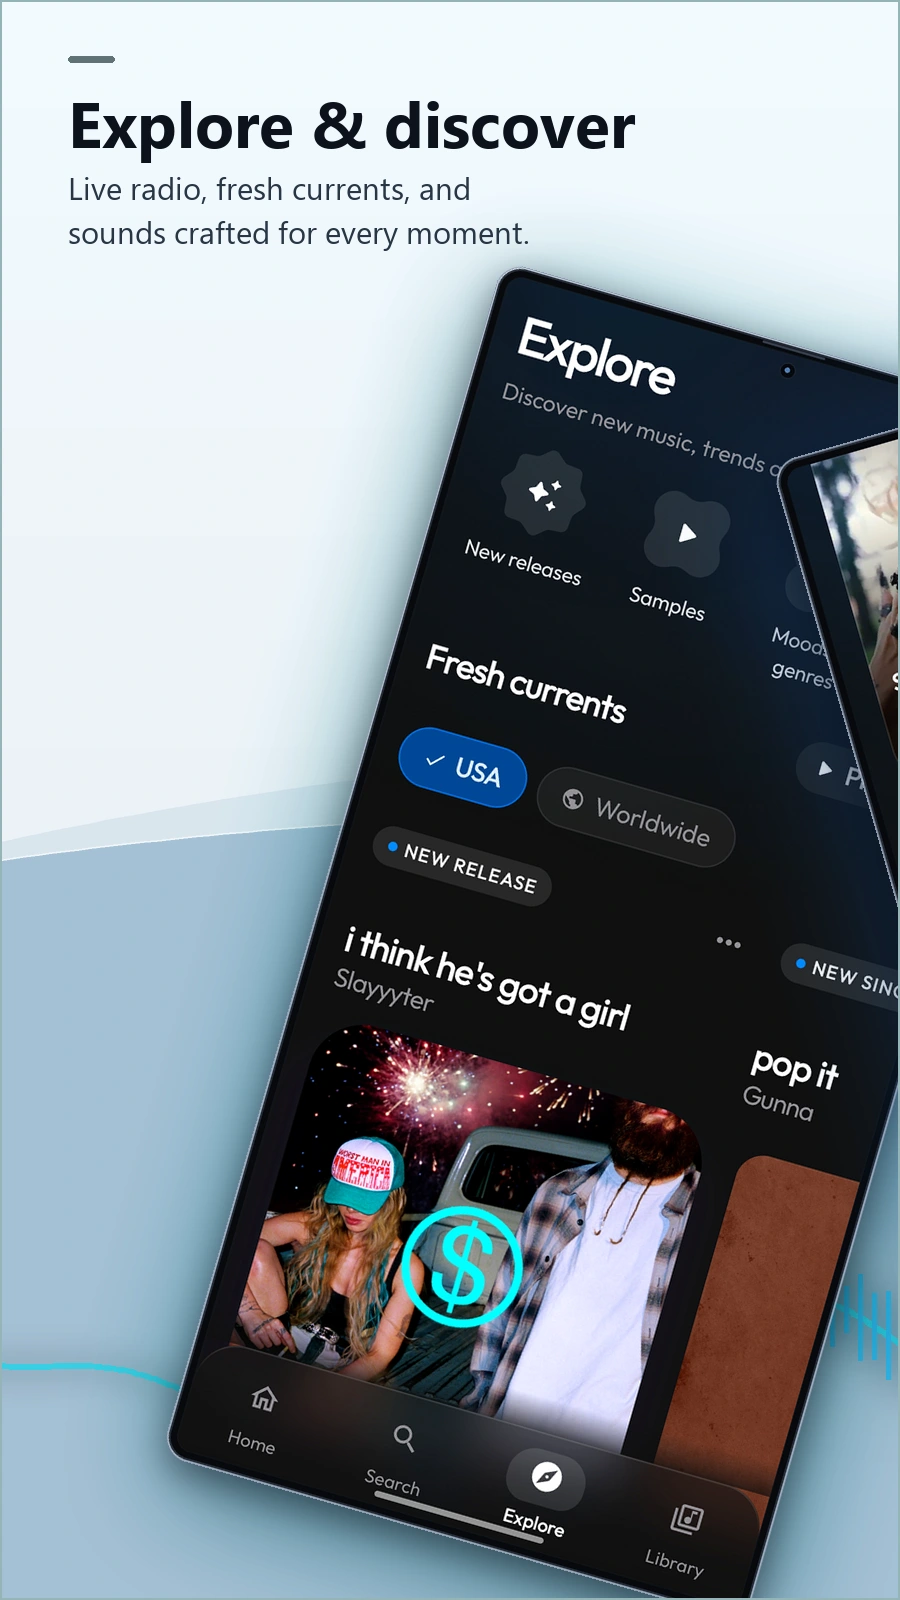
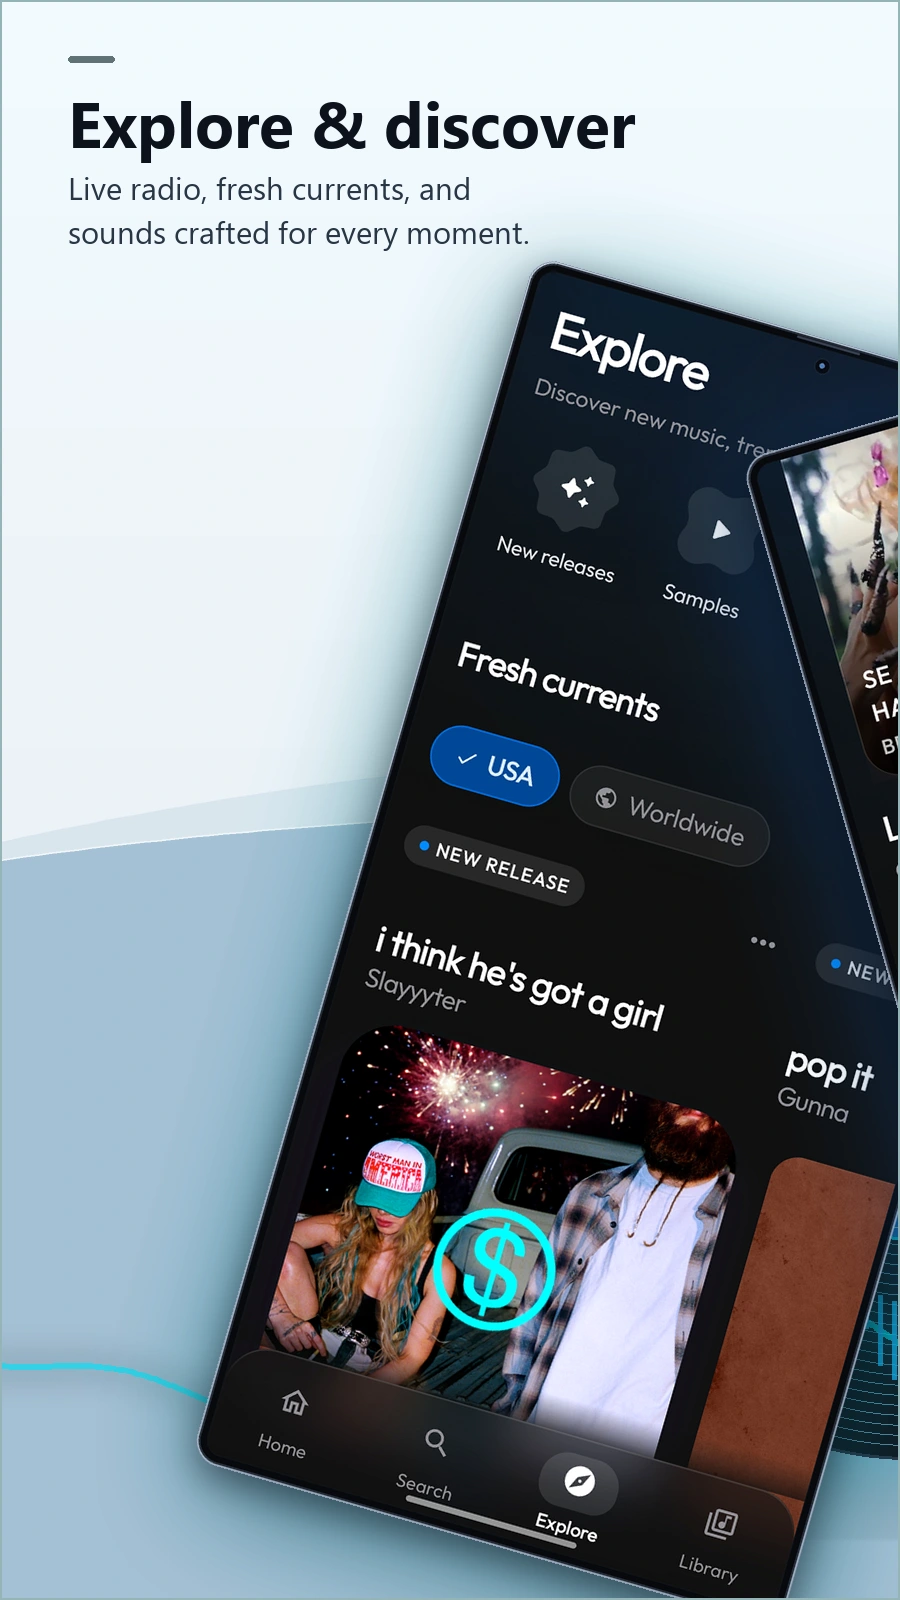
docs(readme): add glowing vinyl portal and stage paths for Explore and Mix

Changed region(s): [[0.1556, 0.1562, 1.0, 1.0]]

diff --git a/scripts/generate_showcase_assets.py b/scripts/generate_showcase_assets.py
@@ -511,44 +511,79 @@ def generate_explore_mix_crossover(card_w, card_h):
         y_end=740,
     )
 
+    # Glowing Vinyl Record centered at the seam (x = 910)
+    vinyl_size = 660
+    vinyl = Image.new("RGBA", (vinyl_size, vinyl_size), (0, 0, 0, 0))
+    vdraw = ImageDraw.Draw(vinyl)
+    vdraw.ellipse((0, 0, vinyl_size - 1, vinyl_size - 1), fill=(15, 18, 25, 255), outline=(40, 48, 65, 255), width=3)
+
+    for r in range(45, vinyl_size // 2 - 12, 10):
+        opacity = 180 if (r % 30 == 0) else 85
+        width = 2 if (r % 30 == 0) else 1
+        vdraw.ellipse((vinyl_size // 2 - r, vinyl_size // 2 - r, vinyl_size // 2 + r, vinyl_size // 2 + r), outline=(45, 54, 72, opacity), width=width)
+
+    sheen = Image.new("RGBA", (vinyl_size, vinyl_size), (0, 0, 0, 0))
+    sdraw = ImageDraw.Draw(sheen)
+    sdraw.pieslice((0, 0, vinyl_size - 1, vinyl_size - 1), start=38, end=72, fill=(255, 255, 255, 30))
+    sdraw.pieslice((0, 0, vinyl_size - 1, vinyl_size - 1), start=218, end=252, fill=(255, 255, 255, 30))
+    sheen = sheen.filter(ImageFilter.GaussianBlur(14))
+    vinyl = Image.alpha_composite(vinyl, sheen)
+
+    vdraw = ImageDraw.Draw(vinyl)
+    label_r = 110
+    vdraw.ellipse((vinyl_size // 2 - label_r, vinyl_size // 2 - label_r, vinyl_size // 2 + label_r, vinyl_size // 2 + label_r), fill=(18, 120, 220, 255), outline=(0, 225, 245, 255), width=3)
+    vdraw.ellipse((vinyl_size // 2 - label_r + 12, vinyl_size // 2 - label_r + 12, vinyl_size // 2 + label_r - 12, vinyl_size // 2 + label_r - 12), outline=(255, 255, 255, 120), width=1)
+    vdraw.text((vinyl_size // 2 - 55, vinyl_size // 2 - 26), "LEVYRA", font=get_font(26, bold=True), fill=(255, 255, 255, 255))
+    vdraw.text((vinyl_size // 2 - 64, vinyl_size // 2 + 8), "SOUND ENGINE", font=get_font(15, bold=True), fill=(200, 235, 255, 220))
+    vdraw.ellipse((vinyl_size // 2 - 14, vinyl_size // 2 - 14, vinyl_size // 2 + 14, vinyl_size // 2 + 14), fill=(12, 14, 18, 255), outline=(200, 210, 225, 255), width=2)
+
+    vx = pano_w // 2 - vinyl_size // 2
+    vy = 800
+
+    v_glow = Image.new("RGBA", (vinyl_size + 120, vinyl_size + 120), (0, 0, 0, 0))
+    ImageDraw.Draw(v_glow).ellipse((60, 60, vinyl_size + 60, vinyl_size + 60), fill=(0, 200, 245, 110))
+    v_glow = v_glow.filter(ImageFilter.GaussianBlur(55))
+    pano_bg.paste(v_glow, (vx - 60, vy - 40), v_glow)
+    pano_bg.paste(vinyl, (vx, vy), vinyl)
+
     eq_layer = Image.new("RGBA", (pano_w, pano_h), (0, 0, 0, 0))
     eq_draw = ImageDraw.Draw(eq_layer)
 
     xs = np.linspace(0, pano_w, 400)
     ys_center = 1350 + 55 * np.sin(xs * 0.007) + 22 * np.cos(xs * 0.018 + 0.8)
     pts = [(int(x), int(y)) for x, y in zip(xs, ys_center)]
-    eq_draw.line(pts, fill=(0, 225, 245, 160), width=6)
+    eq_draw.line(pts, fill=(0, 225, 245, 170), width=6)
 
     np.random.seed(55)
-    for bx in range(650, 1170, 14):
+    for bx in range(600, 1220, 14):
         dist_from_seam = abs(bx - 910)
-        max_h = max(20, int(110 - dist_from_seam * 0.28))
-        bh = np.random.randint(15, max_h)
+        max_h = max(20, int(120 - dist_from_seam * 0.28))
+        bh = np.random.randint(16, max_h)
         by = int(1350 + 55 * np.sin(bx * 0.007) + 22 * np.cos(bx * 0.018 + 0.8))
         r = int(0 + 40 * (bx / pano_w))
         g = int(220 - 70 * (bx / pano_w))
         b = 250
-        eq_draw.line([(bx, by - bh // 2), (bx, by + bh // 2)], fill=(r, g, b, 190), width=5)
+        eq_draw.line([(bx, by - bh // 2), (bx, by + bh // 2)], fill=(r, g, b, 200), width=5)
 
     eq_glow = eq_layer.filter(ImageFilter.GaussianBlur(16))
     pano_bg = Image.alpha_composite(pano_bg, eq_glow)
     pano_bg = Image.alpha_composite(pano_bg, eq_layer)
 
     with Image.open(s1_path) as src1:
-        phone_exp = create_clean_phone(src1, target_height=1220)
+        phone_exp = create_clean_phone(src1, target_height=1230)
     with Image.open(s2_path) as src2:
-        phone_mix = create_clean_phone(src2, target_height=1220)
+        phone_mix = create_clean_phone(src2, target_height=1230)
 
     rot_exp = phone_exp.rotate(-16, resample=Image.Resampling.BICUBIC, expand=True)
     rot_mix = phone_mix.rotate(16, resample=Image.Resampling.BICUBIC, expand=True)
 
-    exp_x = 160
-    exp_y = 260
-    mix_x = card_w + gutter - 150
-    mix_y = 295
+    exp_x = 190
+    exp_y = 255
+    mix_x = 740
+    mix_y = 290
 
-    g_exp, gp_exp = create_colored_glow(rot_exp, (0, 215, 235), blur=60, opacity=80, offset_y=18)
-    g_mix, gp_mix = create_colored_glow(rot_mix, (25, 130, 250), blur=65, opacity=85, offset_y=20)
+    g_exp, gp_exp = create_colored_glow(rot_exp, (0, 215, 235), blur=60, opacity=85, offset_y=18)
+    g_mix, gp_mix = create_colored_glow(rot_mix, (25, 130, 250), blur=65, opacity=90, offset_y=20)
 
     pano_bg.paste(g_exp, (exp_x - gp_exp, exp_y - gp_exp), g_exp)
     paste_phone_with_studio_depth(pano_bg, rot_exp, exp_x, exp_y)
@@ -591,7 +626,9 @@ def generate_explore_mix_crossover(card_w, card_h):
 
     card_05.convert("RGB").save(os.path.join(OUT_CARDS_DIR, "05_explore.webp"), "WEBP", quality=94, method=4)
     card_06.convert("RGB").save(os.path.join(OUT_CARDS_DIR, "06_levyra_mix.webp"), "WEBP", quality=94, method=4)
-    print("Generated 3D Crossover Diptych: 05_explore.webp, 06_levyra_mix.webp")
+    card_05.convert("RGB").save(os.path.join(OUT_CARDS_DIR, "05_explore_stage.webp"), "WEBP", quality=94, method=4)
+    card_06.convert("RGB").save(os.path.join(OUT_CARDS_DIR, "06_levyra_mix_stage.webp"), "WEBP", quality=94, method=4)
+    print("Generated 3D Crossover Diptych: 05_explore.webp, 06_levyra_mix.webp (and _stage.webp)")
 
 def generate_feature_cards():
     card_w, card_h = 900, 1600

diff --git a/README.md b/README.md
@@ -129,8 +129,8 @@ Enhanced Audio is on by default and can be turned off in Audio Settings. Technic
   <a href="docs/assets/showcase/cards/04_player_deck.webp"><img src="docs/assets/showcase/cards/04_player_deck.webp?v=s26ultra-20261010" width="200" alt="Levyra customizable player decks" /></a>
 </p>
 <p align="center">
-  <a href="docs/assets/showcase/cards/05_explore.webp"><img src="docs/assets/showcase/cards/05_explore.webp?v=s26ultra-crossover-20261010" width="200" alt="Levyra explore and fresh currents" /></a>
-  <a href="docs/assets/showcase/cards/06_levyra_mix.webp"><img src="docs/assets/showcase/cards/06_levyra_mix.webp?v=s26ultra-crossover-20261010" width="200" alt="Levyra custom mix and live radio" /></a>
+  <a href="docs/assets/showcase/cards/05_explore_stage.webp"><img src="docs/assets/showcase/cards/05_explore_stage.webp" width="200" alt="Levyra explore and fresh currents" /></a>
+  <a href="docs/assets/showcase/cards/06_levyra_mix_stage.webp"><img src="docs/assets/showcase/cards/06_levyra_mix_stage.webp" width="200" alt="Levyra custom mix and live radio" /></a>
   <a href="docs/assets/showcase/cards/07_genres.webp"><img src="docs/assets/showcase/cards/07_genres.webp?v=s26ultra-20261010" width="200" alt="Levyra moods and genres" /></a>
   <a href="docs/assets/showcase/cards/08_audio_tuning.webp"><img src="docs/assets/showcase/cards/08_audio_tuning.webp?v=s26ultra-20261010" width="200" alt="Levyra audio tuning and playback engine" /></a>
 </p>
